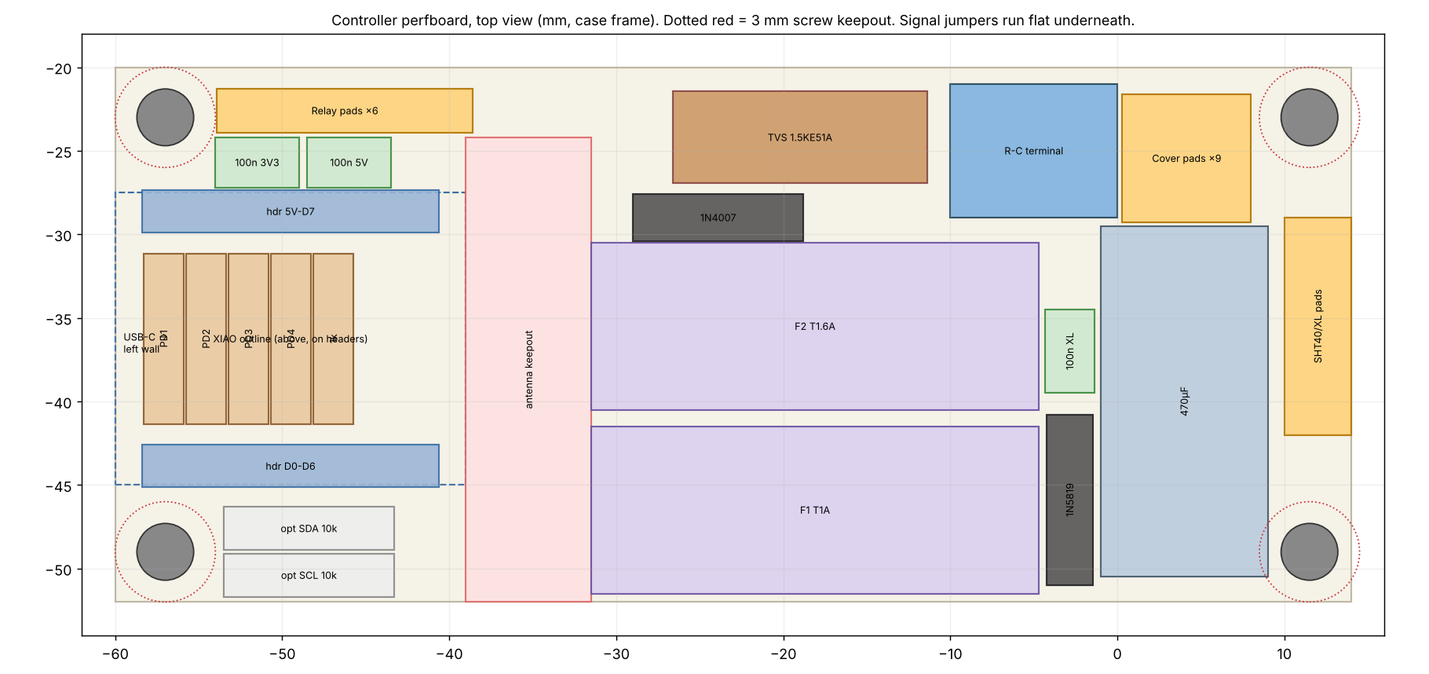
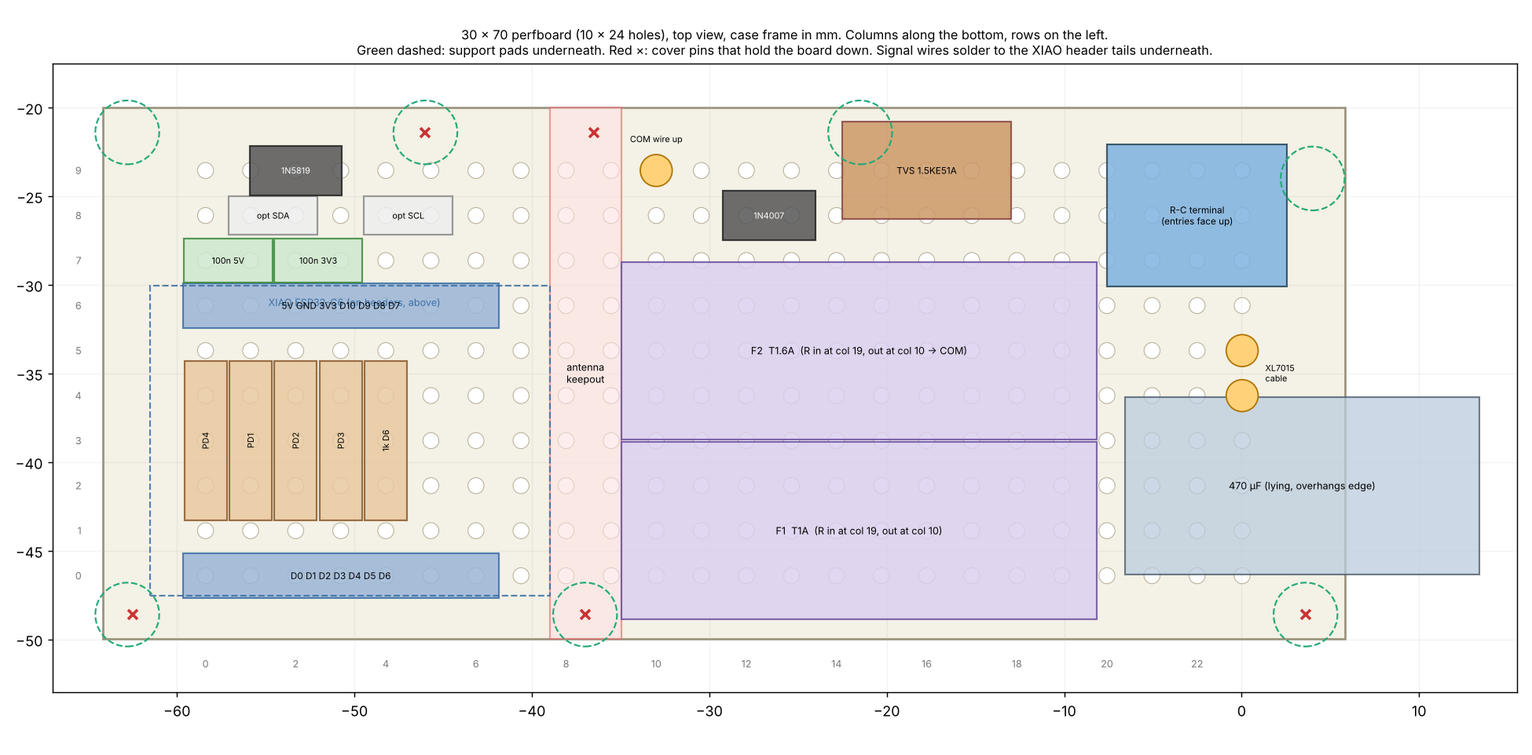
Controller board: redo the layout for the real 30 x 70 perfboard (10 x 24 holes)
- Every part sits on the 2.54 grid; hole (0, 0) is the XIAO's D0 pin, so the
  XIAO keeps its USB at the left wall. Board x -64.2..5.8, y -50..-20.
- Fuse holders along x (pins cols 10/19, rows 1 and 5); R-C terminal at the
  top right with entries facing the window; 470 uF lying along x over the
  board edge; 1N4007/TVS above the fuses; caps, 1N5819 and optional I2C
  pull-ups above the XIAO; pull-downs + 1k under it
- No mounting holes: support pads + fences on the backplate, cover pins hold
  the board down; the four M3 board bosses are gone
- Cover USB cut follows the XIAO; fuse pocket follows the holders
- Cables: relay and cover harnesses reach the XIAO end and solder to its
  header tails; SHT40 grommet channel lowered (z 6) to pass under the cap;
  XL7015 cable lands right of the R-C terminal; COM wire leaves at hole
  (10, 9) and runs at z 21
- HARDWARE.md Controller board section and layout picture redone

Claude-Session: https://claude.ai/code/session_01Pm9CHznUQ14xUjeU6nnErz

diff --git a/cad/fusion_case_v3.py b/cad/fusion_case_v3.py
@@ -41,16 +41,31 @@ MOD = (-62.0, 11.0, -4.5, 45.5)                # measured 73 x 50, centred on th
 MOD_HOLES = [(-59.0, -1.75), (8.0, -1.75), (-59.0, 42.75), (8.0, 42.75)]
 MOD_PCB_Z = 6.0
 FUSE_H = 17.0                                  # holder height with the cap; set to the measured installed height
-FUSE_X = (-31.5, -4.7)                         # fuse holders (26.8 long): 7.5 mm clear of the XIAO's antenna end (x -39)
-FUSE_POCKET = (FUSE_X[0] - 1.0, FUSE_X[1] + 1.0, -52.5, -29.5, 1.0)  # 1.0 deep pocket in the cover over the fuses (H <= 17.9)
+# controller board: a 30 x 70 perfboard with 10 x 24 holes at 2.54 and no mounting holes, held in a cradle. Hole (0, 0) is
+# the XIAO's D0 pin, so the XIAO sits on the grid with its USB end at the left wall; the last column of holes is x 0.03.
+PB_PITCH = 2.54
+PB_X0, PB_Y0 = -58.39, -46.41
+def PB(c, r):
+    return (PB_X0 + PB_PITCH * c, PB_Y0 + PB_PITCH * r)
+CTL = (PB_X0 - 5.79, PB_X0 + 23 * PB_PITCH + 5.79, PB_Y0 - 3.57, PB_Y0 + 9 * PB_PITCH + 3.57)   # x -64.18..5.82, y -49.98..-19.98
+XIAO_CY = PB_Y0 + 3 * PB_PITCH                 # XIAO rows on grid rows 0 (D0-D6) and 6 (5V-D7), cols 0-6
+# fuse holders lie along x, pins 9 holes apart (cols 10 and 19): F1 on row 1, F2 on row 5. 4 mm of plastic, 6 mm to the
+# metal clips, from the XIAO's antenna end (x -39).
+FUSE_X = (PB(10, 0)[0] - 1.97, PB(19, 0)[0] + 1.97)
+FUSE_Y = (PB(0, 1)[1], PB(0, 5)[1])            # holder centre lines (10 wide)
+FUSE_POCKET = (FUSE_X[0] - 1.0, FUSE_X[1] + 1.0, FUSE_Y[0] - 6.0, FUSE_Y[1] + 6.0, 1.0)   # 1.0 deep pocket in the cover (H <= 17.9)
+CAP_AX = (PB(20, 0)[0] + 1.0, PB(20, 0)[0] + 21.0, PB(0, 2)[1])   # 470 uF (10 x 20) lying along x, leads in col 20 rows 1/3,
+                                                                   # overhanging the board edge; ends at x 13.4
 # XL7015 buck (listing: 44 x 16 board; height to the top of the tallest part assumed 12, confirm on arrival)
 XL_L, XL_W, XL_H = 44.0, 16.0, 12.0
 XL_C = (38.5, 34.5)                            # board centre, lying on two rails under the OLED
 XL_TIES = (XL_C[0] + 7.0, XL_C[0] - 5.0)       # zip-tie notches either side of the inductor (board turned: OUT end faces left)
 # controller board
-CTL = (-60.0, 14.0, -52.0, -20.0)             # right edge trimmed to 14.0 (rib at 14.75, grommet at 14.6)
-CTL_HOLES = [(-57.0, -49.0), (11.5, -49.0), (-57.0, -23.0), (11.5, -23.0)]
 CTL_TOP = 7.6
+# cradle: support pads under the board edges, low fences round it, and pins hung from the cover that hold it down
+PB_SUPPORTS = [(-62.8, -48.6), (-37.0, -48.6), (3.6, -48.6), (-62.8, -21.4), (-46.0, -21.4), (-21.5, -21.4), (4.0, -24.0)]
+# (top-edge pads stay clear of the wall-window grommet's flange, x -19.5..19.5 down to y -21.5)
+PB_PRESS = [(-62.5, -48.6), (-37.0, -48.6), (3.6, -48.6), (-46.0, -21.4), (-36.5, -21.4)]
 # OLED (0.96" SSD1306), header removed, wires soldered to pads
 OLED_YB = 22.5
 OLED_W, OLED_H = 27.3, 27.8
@@ -140,7 +155,8 @@ SHT_X0, SHT_Y1 = 40.0, -40.0                   # pin-edge x, +Y edge: centred in
 SHT_L, SHT_W, SHT_T, SHT_Z = 12.56, 10.5, 1.6, 14.0  # along x (pins -> hole), along y, thickness, underside height
                                                      # (mid-depth: in the vent airflow, 11 mm off the backplate)
 SHT_HOLE = (SHT_X0 + SHT_L - 2.4, SHT_Y1 - 2.7)       # 2.85 hole centre
-SG_CH_Z, SG_CH_D = 8.0, 3.6                        # cable channel (4 x 26 AWG silicone, OD 1.3-1.4: needs ~3.4)
+SG_CH_Z, SG_CH_D = 6.0, 3.6                        # cable channel (4 x 26 AWG silicone, OD 1.3-1.4: needs ~3.4); low, so
+                                                   # the cable passes under the 470 uF's overhang to the board
 SG_SQUEEZE = 0.15                                  # per side: wall slot narrower than the block
 # switch mounting holes (measured): through the body side to side, 0.5 from the pin face to the hole edge,
 # one 2.0 round, one 2.1 x 2.0 slot, 6.5 apart and centred on the body (s 1.75 and 8.25).
@@ -371,13 +387,14 @@ def build_wiring():
         x1 = kx[k] - 5.0
         named.append(('Field %s' % nm, wire_path([(x0, -13.5, 0.5), (x0, -13.5, wz), (x0, wy - i * 0.0, wz),
                                                    (x1, wy, wz), (x1, yf, wz)], R_FIELD)))
-    for nm, x in (('R', -7.5), ('C', -2.5)):
-        named.append(('Field %s' % nm, wire_path([(x + 9.0, -13.5, 0.5), (x + 9.0, -13.5, 14.0), (x, -16.0, 14.0),
-                                                  (x, -20.6, 13.6)], R_FIELD)))
+    for nm, x0, c in (('R', 1.5, 21), ('C', 6.5, 23)):            # into the R-C terminal's top-facing entries
+        x = PB(c, 0)[0]
+        named.append(('Field %s' % nm, wire_path([(x0, -13.5, 0.5), (x0, -13.5, 14.0), (x, -18.5, 14.0),
+                                                  (x, -21.9, 12.0)], R_FIELD)))
     # 2. relay commons: F2 (left end) -> COM1, then COM1-COM2-COM3-COM4 jumpers
-    named.append(('F2 -> COM1', wire_path([(-29.5, -23.0, CTL_TOP + 0.8),
-                                           (-29.5, -23.0, 17.0), (-29.5, -8.0, 17.0), (kx[0], -8.0, 17.0),
-                                           (kx[0], yf, zt + 1.5)], R_FIELD)))
+    hc = PB(10, 9)                                                 # F2 out (col 10, row 5) -> underside -> hole (10, 9)
+    named.append(('F2 -> COM1', wire_path([(hc[0], hc[1], CTL_TOP + 0.8), (hc[0], hc[1], 21.0), (hc[0], -8.0, 21.0),
+                                           (kx[0], -8.0, 21.0), (kx[0], -8.0, 17.0), (kx[0], yf, zt + 1.5)], R_FIELD)))
     for a, c in zip(kx[:-1], kx[1:]):
         named.append(('COM jumper', wire_path([(a + 0.6, yf, zt + 1.5), (a + 0.6, yf - 2.0, zt + 3.5),
                                                (c - 0.6, yf - 2.0, zt + 3.5), (c - 0.6, yf, zt + 1.5)], R_FIELD)))
@@ -385,7 +402,8 @@ def build_wiring():
     rb = r_bundle(6)
     cx = mx0 - 1.2                                                 # channel between the module and the rim
     yb = my1 + 3.0
-    named.append(('Relay harness (6)', wire_path([(-50.0, -22.0, CTL_TOP + rb), (cx, -22.0, CTL_TOP + rb + 2.0),
+    # wires solder to the XIAO's header tails underneath and leave from under the board's top-left corner
+    named.append(('Relay harness (6)', wire_path([(-61.0, -18.0, 4.9), (cx, -18.0, CTL_TOP + rb + 2.0),
                                                   (cx, yb, CTL_TOP + rb + 2.0), (mx0 + 26.0, yb, CTL_TOP + rb + 2.0)], rb)))
     for i in range(6):
         tx = mx0 + 3.5 + i * 5.0
@@ -399,7 +417,8 @@ def build_wiring():
     xx = 14.0                                                      # XL7015 bundle runs low, under the cover harness
     zb = CTL_TOP + xb + 0.2
     # 3 wires: bus +, GND, 5 V out (IN- and OUT- are the same node on the XL7015). Board turned so OUT faces the cable.
-    named.append(('XL7015 harness (3)', wire_path([(12.0, -31.5, zb), (12.0, -29.0, zb), (xx, -29.0, zb), (xx, -17.0, zb), (xx, -12.0, 6.0),
+    hx_ = PB(23, 0)[0]                                             # lands in col 23, rows 4-5, right of the R-C terminal
+    named.append(('XL7015 harness (3)', wire_path([(hx_, -35.0, zb), (4.5, -35.0, zb), (4.5, -18.0, zb), (xx, -17.0, zb), (xx, -12.0, 6.0),
                                                    (xx, yl0 + 1.5, 6.0)], xb)))
     for nm, yy in (('OUT- (GND)', yl0 + 1.5), ('OUT+ (5 V)', yl1 - 1.5)):
         named.append(('XL7015 %s' % nm, wire_path([(xx, yl0 + 1.5, 6.0), (xx, yy, 6.0), (xl0 + 1.0, yy, PLATE + 3.6)], R_SIG)))
@@ -410,10 +429,12 @@ def build_wiring():
     named.append(('SHT40 (4)', wire_path([(SHT_X0 + 1.1, SHT_Y1 - SHT_W / 2, SHT_Z + SHT_T + 1.2),
                                           (SHT_X0 - 1.5, SHT_Y1 - SHT_W / 2, SHT_Z + SHT_T + 1.2), (SHT_X0 - 4.0, sy, SG_CH_Z),
                                           (SG_X[1] + 1.5, sy, SG_CH_Z),
-                                          (SG_X[0] - 1.0, sy, SG_CH_Z), (12.0, sy, CTL_TOP + 1.6)], r_bundle(4))))
+                                          (SG_X[0] - 0.2, sy, SG_CH_Z), (6.0, sy, 4.5)], r_bundle(4))))
+    # (under the 470 uF's overhang, then flat under the board to the XIAO's header tails)
     # 6. cover side: OLED (4) and D-pad (6) pigtails end in JST-PH pairs lying flat under the carrier (x 22..48,
     #    y 5..17); ~80 mm of cover-side slack is stowed there too. Controller side: one 10-wire bundle down the
-    #    channel right of the relay module to pads at x 2..8, y -28..-24 (clear of the R-C terminal and the screw).
+    #    channel right of the relay module, then high along the board's top edge (over the field wires, under the
+    #    F2 -> COM wire) to the XIAO end, where the wires go under the board to the XIAO's header tails.
     cb = r_bundle(10)
     pz = 6.85                                                      # mid-height of the mated pairs
     named.append(('OLED (4)', wire_path([(UX, OLED_YB + OLED_H - 2.0, ZF - 2.6), (UX, OLED_YB + OLED_H + 1.5, ZF - 4.0),
@@ -421,8 +442,8 @@ def build_wiring():
                                          (xc, 21.0, 12.0), (43.0, 21.0, pz), (43.0, 17.0, pz)], r_bundle(4))))
     named.append(('D-pad (6)', wire_path([(DC[0], DC[1] - 5.0, 9.5), (DC[0] - 5.0, DC[1] - 5.0, 9.5), (20.0, DC[1] - 5.0, 9.5),
                                           (20.0, -6.0, 6.0), (20.0, 18.5, 6.0), (29.0, 18.5, pz), (29.0, 17.0, pz)], r_bundle(6))))
-    named.append(('Controller side (10)', wire_path([(29.0, 5.0, pz), (29.0, 2.5, pz), (25.0, 2.5, 10.3), (15.5, 2.5, 10.3), (xc, 0.0, 13.0), (xc, -17.0, 13.0),
-                                                     (8.0, -22.0, 13.0), (5.0, -25.5, CTL_TOP + cb)], cb)))
+    named.append(('Controller side (10)', wire_path([(29.0, 5.0, pz), (29.0, 2.5, pz), (25.0, 2.5, 10.3), (15.5, 2.5, 10.3), (xc, 0.0, 13.0), (xc, -15.0, 15.0),
+                                                     (10.0, -17.5, 17.5), (-57.0, -17.5, 17.5), (-57.0, -17.5, 10.2)], cb)))
     named.append(('OLED pair -> bundle', wire_path([(43.0, 5.0, pz), (43.0, 2.5, pz), (29.5, 2.5, pz)], r_bundle(4))))
     add_bodies(w, named)
     for i, (n, _) in enumerate(named):
@@ -485,6 +506,8 @@ def build():
     joins.append(tbox(18.9, 20.1, -iy - 0.5, -52.4, 8.5, ZF + 0.3))
     joins.append(tbox(18.9, 64.4, -36.1, -34.9, 3.5, ZF + 0.3))
     joins.append(tbox(64.4, ix + 0.2, -36.1, -34.9, 8.5, ZF + 0.3))
+    for px, py in PB_PRESS:                       # hold the controller board down onto its support pads (0.15 gap)
+        joins.append(tcyl((px, py, CTL_TOP + 0.15), (px, py, ZF + 0.3), 1.2))
     combine(cov, body, joins, JOIN)
 
     cuts = []
@@ -512,7 +535,7 @@ def build():
         cuts.append(trrect(cx - 1, cx + 1, -iy - 3, -iy + 1, 7.0, 20.0, 0.9))
     for cy in (-50.0, -46.0, -42.0, -38.0):                                               # chamber intake, right side
         cuts.append(tbox(ix - 3, ix + 3, cy - 1, cy + 1, 9.0, 20.0))
-    cuts.append(tbox(-ix - 3, -ix + 1, -36.25 - 6.5, -36.25 + 6.5, 15.0, 22.5))          # USB-C, left wall
+    cuts.append(tbox(-ix - 3, -ix + 1, XIAO_CY - 6.5, XIAO_CY + 6.5, 15.0, 22.5))          # USB-C, left wall
     cuts.append(trrect(UX - WIN[0], UX + WIN[0], WIN[1], WIN[2], ZF - 1, DEPTH + 1, 1.0))  # OLED window
     for nm in ('center',) + tuple(ANG):                                                  # square-pad key openings
         cuts.append(sq_shape(nm, SQ_HOLE_CLR, ZF - 1, DEPTH + 1))
@@ -545,8 +568,15 @@ def build():
     joins += [vrib, hrib]
     for x, y in MOD_HOLES:
         joins.append(tcyl((x, y, 1.0), (x, y, MOD_PCB_Z), 3.5))
-    for x, y in CTL_HOLES:
-        joins.append(tcyl((x, y, 1.0), (x, y, CTL_TOP - 1.6), 3.5))
+    cx0, cx1, cy0, cy1 = CTL                                                     # controller board cradle
+    for x, y in PB_SUPPORTS:                                                     # pads under the hole-free edge margins
+        joins.append(tcyl((x, y, PLATE - 0.5), (x, y, CTL_TOP - 1.6), 1.8))
+    g_, t_, zt_ = 0.15, 1.2, CTL_TOP + 0.8                                       # fences: no overhangs, prints as is
+    joins.append(tbox(cx0 + 1.0, cx0 + 7.0, cy0 - g_ - t_, cy0 - g_, PLATE - 0.5, zt_))      # bottom edge, both ends
+    joins.append(tbox(cx1 - 7.0, cx1 - 1.0, cy0 - g_ - t_, cy0 - g_, PLATE - 0.5, zt_))
+    joins.append(tbox(-45.0, -40.0, cy1 + g_, cy1 + g_ + t_, PLATE - 0.5, zt_))       # top edge, clear of the wall screw
+    joins.append(tbox(cx1 + g_, cx1 + g_ + t_, cy0 + 1.0, cy0 + 4.0, PLATE - 0.5, zt_))   # right edge, below the cap
+    joins.append(tbox(cx1 + g_, cx1 + g_ + t_, cy1 - 7.0, cy1 - 3.0, PLATE - 0.5, zt_))
     hx_, hy_ = SHT_HOLE                                                          # SHT40 standoff + two rest posts
     joins.append(tcyl((hx_, hy_, PLATE - 0.5), (hx_, hy_, SHT_Z), 2.0))      # thin: less wall heat into the sensor
     for px_, py_ in ((SHT_X0 + 4.5, SHT_Y1 - 1.5), (SHT_X0 + 4.5, SHT_Y1 - SHT_W + 1.5)):
@@ -567,8 +597,6 @@ def build():
     cuts = []
     for x, y in MOD_HOLES:                                                         # M3 x 6 into the bosses
         cuts.append(tcyl((x, y, 1.0), (x, y, MOD_PCB_Z + 0.1), M3_PILOT_R))
-    for x, y in CTL_HOLES:
-        cuts.append(tcyl((x, y, 1.0), (x, y, CTL_TOP - 1.5), M3_PILOT_R))
     cuts.append(tcyl((SCREW[0], -hy - 1.0, SCREW[1]), (SCREW[0], -45.0, SCREW[1]), M3_PILOT_R))   # M3 x 10 closure (2 mm past the tip)
     cuts.append(tbox(VDIV_X - DIV_RIB, VDIV_X + DIV_RIB, HDIV_Y - DIV_RIB, HDIV_Y + DIV_RIB, 10.0, 13.0))   # rib junction groove
     cuts.append(trrect(*WIN_W, -1.0, PLATE + 1.0, WIN_R))                          # wire window
@@ -799,35 +827,43 @@ def build():
         ('Input terminal (DC+ DC- IN1-4)', tbox(mx0 + 1.0, mx0 + 31.5, my0 + 41.5, my0 + 49.5, mz, mz + 10.0)),
         ('H/L jumpers S1-S4', tbox(mx1 - 31.0, mx1 - 20.0, my0 + 40.0, my0 + 48.0, mz, mz + 8.5)),
         ('Controller perfboard', tbox(cx0, cx1, cy0, cy1, CTL_TOP - 1.6, CTL_TOP)),
-        ('XIAO ESP32-C6', tbox(-60.0, -39.0, -45.0, -27.5, CTL_TOP + 8.5, CTL_TOP + 9.5)),
-        ('XIAO shield + USB', tbox(-61.5, -46.0, -41.0, -31.5, CTL_TOP + 9.5, CTL_TOP + 12.7)),
-        # 0.6" DIP rows: D0-D6 on the -y row, 5V GND 3V3 D10 D9 D8 D7 on the +y row, pin 1 at the USB end
-        ('XIAO header row D0-D6', tbox(-58.39, -40.61, -45.14, -42.60, CTL_TOP, CTL_TOP + 8.5)),
-        ('XIAO header row 5V-D7', tbox(-58.39, -40.61, -29.90, -27.36, CTL_TOP, CTL_TOP + 8.5)),
+        ('XIAO ESP32-C6', tbox(-60.0, -39.0, XIAO_CY - 8.75, XIAO_CY + 8.75, CTL_TOP + 8.5, CTL_TOP + 9.5)),
+        ('XIAO shield + USB', tbox(-61.5, -46.0, XIAO_CY - 4.75, XIAO_CY + 4.75, CTL_TOP + 9.5, CTL_TOP + 12.7)),
+        # 0.6" DIP rows on grid rows 0 and 6, cols 0-6: D0-D6 on row 0, 5V GND 3V3 D10 D9 D8 D7 on row 6
+        ('XIAO header row D0-D6', tbox(PB(0, 0)[0] - 1.27, PB(6, 0)[0] + 1.27, PB(0, 0)[1] - 1.27, PB(0, 0)[1] + 1.27,
+                                        CTL_TOP, CTL_TOP + 8.5)),
+        ('XIAO header row 5V-D7', tbox(PB(0, 6)[0] - 1.27, PB(6, 6)[0] + 1.27, PB(0, 6)[1] - 1.27, PB(0, 6)[1] + 1.27,
+                                        CTL_TOP, CTL_TOP + 8.5)),
         ('XL7015 board', tbox(XL_C[0] - XL_L / 2, XL_C[0] + XL_L / 2, XL_C[1] - XL_W / 2, XL_C[1] + XL_W / 2,
                               PLATE + 1.5, PLATE + 1.5 + 1.6)),
         ('XL7015 parts (caps, trimpot)', tbox(XL_C[0] - XL_L / 2 + 1, XL_C[0] + XL_L / 2 - 1, XL_C[1] - XL_W / 2,
                                               XL_C[1] + XL_W / 2, PLATE + 3.1, PLATE + 1.5 + XL_H)),
-        ('470uF 63V (lying, on the controller board)', tcyl((4.0, -50.5, CTL_TOP + 5.0), (4.0, -29.5, CTL_TOP + 5.0), 5.0)),
-        ('Pad strip (SHT40 4, XL7015 3)', tbox(10.0, 14.0, -42.0, -29.0, CTL_TOP, CTL_TOP + 0.6)),
+        ('470uF 63V (lying along x, leads col 20, over the board edge)',
+         tcyl((CAP_AX[0], CAP_AX[2], CTL_TOP + 5.0), (CAP_AX[1], CAP_AX[2], CTL_TOP + 5.0), 5.0)),
         ('JST-PH 6p pair (D-pad), lying flat', tbox(22.0, 36.0, 5.0, 17.0, 4.6, 9.1)),
         ('JST-PH 4p pair (OLED), lying flat', tbox(38.0, 48.0, 5.0, 17.0, 4.6, 9.1)),
-        ('R-C terminal', tbox(-10.0, 0.0, -29.0, -21.0, CTL_TOP, CTL_TOP + 12.0)),
-        # 5x20 PCB fuse holders, measured 26.8 x 10 x 17 with the cap on (pins 23 apart)
-        ('Fuse F1 PCB holder', tbox(FUSE_X[0], FUSE_X[1], -51.5, -41.5, CTL_TOP, CTL_TOP + FUSE_H)),
-        ('Fuse F2 PCB holder', tbox(FUSE_X[0], FUSE_X[1], -40.5, -30.5, CTL_TOP, CTL_TOP + FUSE_H)),
+        # 5.08 R-C terminal, pins in cols 21/23 of row 8, wire entries facing the wall window (+y)
+        ('R-C terminal', tbox(PB(21, 0)[0] - 2.54, PB(23, 0)[0] + 2.54, PB(0, 8)[1] - 4.0, PB(0, 8)[1] + 4.0,
+                              CTL_TOP, CTL_TOP + 12.0)),
+        # 5x20 PCB fuse holders, measured 26.8 x 10 x 17 with the cap on (pins 23 apart = 9 holes)
+        ('Fuse F1 PCB holder', tbox(FUSE_X[0], FUSE_X[1], FUSE_Y[0] - 5.0, FUSE_Y[0] + 5.0, CTL_TOP, CTL_TOP + FUSE_H)),
+        ('Fuse F2 PCB holder', tbox(FUSE_X[0], FUSE_X[1], FUSE_Y[1] - 5.0, FUSE_Y[1] + 5.0, CTL_TOP, CTL_TOP + FUSE_H)),
         # ---- small parts (docs/HARDWARE.md, Controller board). Signal jumpers run flat on the underside (26 AWG).
-        ('XIAO antenna keepout (keep empty)', tbox(-39.0, FUSE_X[0], -52.0, -24.2, CTL_TOP, CTL_TOP + 0.2)),
-        ('Relay cable pads (5V GND IN1-4)', tbox(-53.9, -38.6, -23.9, -21.3, CTL_TOP, CTL_TOP + 1.5)),
-        ('100nF XIAO 3V3', tbox(-54.0, -49.0, -27.2, -24.2, CTL_TOP, CTL_TOP + 7.0)),
-        ('100nF XIAO 5V', tbox(-48.5, -43.5, -27.2, -24.2, CTL_TOP, CTL_TOP + 7.0)),
-        ('Opt. I2C pull-up SDA 10k', tcyl((-53.5, -47.6, CTL_TOP + 1.3), (-43.3, -47.6, CTL_TOP + 1.3), 1.3)),
-        ('Opt. I2C pull-up SCL 10k', tcyl((-53.5, -50.4, CTL_TOP + 1.3), (-43.3, -50.4, CTL_TOP + 1.3), 1.3)),
-        ('1N4007 (F1 -> bus)', tcyl((-29.0, -29.0, CTL_TOP + 1.4), (-18.8, -29.0, CTL_TOP + 1.4), 1.4)),
-        ('1.5KE51A TVS (bus)', tcyl((-26.6, -24.2, CTL_TOP + 2.75), (-11.4, -24.2, CTL_TOP + 2.75), 2.75)),
-        ('1N5819 (XL OUT -> XIAO 5V)', tcyl((-2.85, -51.0, CTL_TOP + 1.4), (-2.85, -40.8, CTL_TOP + 1.4), 1.4)),
-        ('100nF XL7015 OUT', tbox(-4.35, -1.35, -39.5, -34.5, CTL_TOP, CTL_TOP + 7.0)),
-        ('Cover harness pads (9)', tbox(0.3, 8.0, -29.3, -21.6, CTL_TOP, CTL_TOP + 1.5)),
+        # ---- small parts (docs/HARDWARE.md, Controller board). Wires to the XIAO solder to its header tails underneath.
+        ('XIAO antenna keepout (keep empty)', tbox(-39.0, FUSE_X[0], CTL[2], CTL[3], CTL_TOP, CTL_TOP + 0.2)),
+        ('100nF XIAO 5V (cols 0-1, row 7)', tbox(PB(0, 7)[0] - 1.23, PB(1, 7)[0] + 1.23, PB(0, 7)[1] - 1.25, PB(0, 7)[1] + 1.25,
+                                                 CTL_TOP, CTL_TOP + 7.0)),
+        ('100nF XIAO 3V3 (cols 2-3, row 7)', tbox(PB(2, 7)[0] - 1.23, PB(3, 7)[0] + 1.23, PB(0, 7)[1] - 1.25, PB(0, 7)[1] + 1.25,
+                                                  CTL_TOP, CTL_TOP + 7.0)),
+        ('Opt. I2C pull-up SDA 10k (row 8, cols 0-3)', tcyl((PB(0, 8)[0] + 1.3, PB(0, 8)[1], CTL_TOP + 1.1),
+                                                            (PB(3, 8)[0] - 1.3, PB(0, 8)[1], CTL_TOP + 1.1), 1.1)),
+        ('Opt. I2C pull-up SCL 10k (row 8, cols 3-6)', tcyl((PB(3, 8)[0] + 1.3, PB(0, 8)[1], CTL_TOP + 1.1),
+                                                            (PB(6, 8)[0] - 1.3, PB(0, 8)[1], CTL_TOP + 1.1), 1.1)),
+        ('1N5819 (row 9, cols 0-4)', tcyl((PB(0, 9)[0] + 2.5, PB(0, 9)[1], CTL_TOP + 1.4), (PB(4, 9)[0] - 2.5, PB(0, 9)[1], CTL_TOP + 1.4), 1.4)),
+        ('1N4007 (row 8, cols 11-14)', tcyl((PB(11, 8)[0] + 1.2, PB(0, 8)[1], CTL_TOP + 1.4), (PB(14, 8)[0] - 1.2, PB(0, 8)[1], CTL_TOP + 1.4), 1.4)),
+        ('1.5KE51A TVS (row 9, cols 13-19)', tcyl((PB(16, 9)[0] - 4.75, PB(0, 9)[1], CTL_TOP + 2.75), (PB(16, 9)[0] + 4.75, PB(0, 9)[1], CTL_TOP + 2.75), 2.75)),
+        ('F2 -> COM wire hole (col 10, row 9)', tcyl((PB(10, 9)[0], PB(10, 9)[1], CTL_TOP), (PB(10, 9)[0], PB(10, 9)[1], CTL_TOP + 0.6), 0.6)),
+        ('XL7015 cable holes (col 23, rows 4-5)', tbox(PB(23, 4)[0] - 1.0, PB(23, 4)[0] + 1.0, PB(0, 4)[1] - 1.0, PB(0, 5)[1] + 1.0, CTL_TOP, CTL_TOP + 0.6)),
         ('SHT40 module', tbox(SHT_X0, SHT_X0 + SHT_L, SHT_Y1 - SHT_W, SHT_Y1, SHT_Z, SHT_Z + SHT_T + 1.0)),
         ('#8 screw head L (slot travel)', U(tcyl((-MNT_X - MNT_HALF, MNT_Y, PLATE + MNT_BOSS), (-MNT_X - MNT_HALF, MNT_Y, PLATE + MNT_BOSS + 3), MNT_RH),
                                           U(tbox(-MNT_X - MNT_HALF, -MNT_X + MNT_HALF, MNT_Y - MNT_RH, MNT_Y + MNT_RH, PLATE + MNT_BOSS, PLATE + MNT_BOSS + 3),
@@ -839,9 +875,10 @@ def build():
         ('OLED glass', tbox(UX - 13.35, UX + 13.35, OLED_YB + 4.6, OLED_YB + 24.0, ZF - 1.4, ZF)),
         ('OLED back parts', tbox(UX - 12.0, UX + 12.0, OLED_YB + 1, OLED_YB + 26, ZF - 3.4, ZF - 2.4)),
     ]
-    for nm, x in (('10k pull-down IN1 (D1)', -57.1), ('10k pull-down IN2 (D2)', -54.56), ('10k pull-down IN3 (D3)', -52.02),
-                  ('10k pull-down IN4 (D10)', -49.48), ('1k series D6 (RIGHT key)', -46.94)):   # under the XIAO, USB half
-        r.append((nm, tcyl((x, -41.35, CTL_TOP + 1.25), (x, -31.15, CTL_TOP + 1.25), 1.2)))   # 1/4 W body ~2.4
+    for nm, c in (('10k pull-down IN4 (D10)', 0), ('10k pull-down IN1 (D1)', 1), ('10k pull-down IN2 (D2)', 2),
+                  ('10k pull-down IN3 (D3)', 3), ('1k series D6 (RIGHT key)', 4)):   # under the XIAO, leads on rows 1 and 5
+        x = PB(c, 0)[0]
+        r.append((nm, tcyl((x, PB(0, 1)[1] + 0.6, CTL_TOP + 1.25), (x, PB(0, 5)[1] - 0.6, CTL_TOP + 1.25), 1.2)))   # 1/4 W ~2.4
     for i, dx in enumerate((-25.5, -8.5, 8.5, 25.5)):
         x = (mx0 + mx1) / 2 + dx
         r.append(('Relay K%d' % (i + 1), tbox(x - 7.75, x + 7.75, my0 + 10, my0 + 29, mz, mz + 15.5)))

diff --git a/docs/HARDWARE.md b/docs/HARDWARE.md
@@ -76,30 +76,32 @@ R ──F2 T1.6A── relay COM1..COM4 (jumpered)
 
 ![Controller perfboard layout](controller_layout.png)
 
-Perfboard about 74 × 32 mm (x −60..14, y −52..−20 in the CAD), top face 7.6 mm above the wall plane. Every part sits on the **top**; signal jumpers (26 AWG) run flat on the underside, and every lead and header tail is trimmed to ≤ 2 mm (3 mm gap to the backplate). Every pad and lead stays ≥ 3 mm from a screw centre.
+A **30 × 70 mm perfboard with 10 × 24 holes** (2.54 mm) and no mounting holes, top face 7.6 mm above the wall plane. In the CAD the board spans x −64.2..5.8, y −50.0..−20.0. Hole (column 0, row 0) is the XIAO's D0 pin; columns run along x, rows along y.
 
-| Part | Where (x, y in mm) | Notes |
+- **Mounting:** no screws. The board sits on seven support pads on the backplate, inside low fences along its bottom, top and right edges, with the backplate rim on its left. Five pins hung from the cover stop 0.15 mm above the board and hold it down when the cover is on.
+- **Wiring:** every part sits on the top. Wires to the XIAO (relay cable, cover harness, SHT40) solder to the XIAO's header tails underneath and run flat under the board (26 AWG). Trim every lead and tail to ≤ 2 mm: there are 3 mm to the backplate.
+
+| Part | Holes (column, row) | Notes |
 |---|---|---|
-| XIAO ESP32-C6 on female headers | x −60..−39; rows y −43.9 (D0–D6) and −28.6 (5V GND 3V3 D10 D9 D8 D7), pin 1 at the USB end | USB-C through the left wall. Antenna at the x −39 end. |
-| **Antenna keepout** | x −39..−31.5, full height of the board | Bare board: no metal, no 24 VAC wire. The cover and backplate in front of it are plain plastic. |
-| 10 k pull-downs IN1–IN4, 1 k D6 series | under the XIAO, lying along y at x −57.1, −54.6, −52.0, −49.5 (pull-downs) and −46.9 (1 k) | Between the header rows (2.6 mm tall vs 8.5 under the XIAO), kept to the USB half. D1 and GND are opposite each other, so PD1 goes straight across. |
-| 100 nF, XIAO 3V3 and 5V | standing just above the 5V–D7 row, x −54..−49 and −48.5..−43.5 | |
-| Relay cable pads (DC+, DC−, IN1–IN4) | one row at y −22.6, x −53.9..−38.6 | Cable soldered here and tacked down; it leaves along the top edge to the left channel. |
-| Optional I2C pull-ups 10 k | below the XIAO, lying along x at y −47.6 and −50.4, x −53.5..−43.3 | Only if the SHT40 module has none. |
-| F2 (T1.6A, relay commons) | top row, x −31.5..−4.7, y −40.5..−30.5 | R in at the right pin; out at the left pin to the COM wire, which leaves the board at (−29.5, −23). |
-| F1 (T1A, power) | bottom row, same x, y −51.5..−41.5 | R in at the right pin; left pin to the 1N4007 by an underside link. |
-| 1N4007 | lying along x above F2, x −29..−18.8, y −29 | F1 → bus. |
-| 1.5KE51A TVS | lying along x, x −26.6..−11.4, y −24.2 | Across the bus (cathode to bus +, at the right end). |
-| R-C terminal | x −10..0, y −29..−21 | Field R and C from the wire window. |
-| 470 µF 63 V | lying, axis x = 4, y −50.5..−29.5 | Clears the (11.5, −49) screw for a driver. |
-| 1N5819 | lying along y, x −2.85, y −51..−40.8 | XL7015 OUT+ → XIAO 5V. |
-| 100 nF at the XL7015 output | standing, x −4.35..−1.35, y −39.5..−34.5 | |
-| Cover harness pads (9) | 3 × 3, x 0.3..8, y −29.3..−21.6 | GND (OLED and D-pad share it), 3V3, SDA, SCL, UP, DOWN, LEFT, RIGHT, OK. |
-| SHT40 (4) and XL7015 (3) pads | x 10..14, y −42..−36 and −34..−29 | Cables arrive from the grommet and the channel on the right. |
+| XIAO ESP32-C6 on female headers | columns 0–6; row 0 = D0–D6, row 6 = 5V GND 3V3 D10 D9 D8 D7 | USB-C at the left wall; antenna at the column-6 end. |
+| 10 k pull-downs IN4 (D10), IN1, IN2, IN3 and the 1 k D6 series resistor | columns 0, 1, 2, 3 and 4, leads on rows 1 and 5 (lying under the XIAO) | 2.4 mm tall vs 8.5 under the XIAO. D1 and GND are both on column 1, so the IN1 pull-down goes straight across. |
+| 100 nF, XIAO 5V and 3V3 | columns 0–1 and 2–3, row 7 | standing, just above the 5V–D7 row |
+| Optional I2C pull-ups 10 k | row 8, columns 0–3 and 3–6 (share the 3V3 hole in column 3) | only if the SHT40 module has none |
+| 1N5819 | row 9, columns 0–4 (cathode on column 0, toward 5V) | XL7015 OUT+ → XIAO 5V |
+| **Antenna keepout** | columns 7–9 | bare board, no metal, no 24 VAC; only plastic (a cover pin) in front of it |
+| F1 (T1A, power) | pins at columns 10 and 19, row 1 | R in at column 19; out at column 10, by an underside link to the 1N4007 |
+| F2 (T1.6A, relay commons) | pins at columns 10 and 19, row 5 | R in at column 19; out at column 10, by an underside link to hole (10, 9), where the 18 AWG COM wire leaves the board |
+| 1N4007 | row 8, columns 11–14 | F1 → bus |
+| 1.5KE51A TVS | row 9, columns 13–19 (cathode toward column 13) | across the bus |
+| R-C terminal (5.08) | columns 21 and 23, row 8 | wire entries face the top edge, toward the wall window |
+| 470 µF 63 V | leads in column 20, rows 1 and 3; body lying along x, over the right edge | about 7.6 mm of the 20 mm body hangs past the board edge, clear of the divider rib. The SHT40 cable passes underneath it. |
+| XL7015 cable (bus +, GND, 5 V) | column 23, rows 4–5 | the cable arrives down the right side of the R-C terminal |
 
-- **NPN relay drivers (optional):** the four TO-92s and their base resistors don't fit on this board. If bring-up step 2 calls for them, build them on a small strip at the relay module's 6-way input terminal.
 - **Fuse holders:** the header pins added to the clip legs must be **soldered**, not glued (CA glue doesn't conduct and F2 carries up to about 1 A). Tug-test them and check ≤ 0.05 Ω from clip to pin. Installed height, board top to the highest point, must be ≤ 17.9 mm (the cover has a 1 mm pocket over the fuses).
-- **Reachable with the cover off:** both fuses, the XIAO's B and R buttons, and the USB-C port (through the left wall). The XL7015 trimpot is on the XL board under the OLED, reachable with the cover off.
+- **100 nF at the XL7015 output:** solder it across the XL7015's own OUT terminals; there's no room for it on the perfboard.
+- **NPN relay drivers (optional):** they don't fit. If bring-up step 2 calls for them, build them on a small strip at the relay module's 6-way input terminal.
+- **Antenna clearance:** the fuse holders' plastic is 4 mm from the XIAO's antenna end and their metal clips about 6 mm.
+- **Reachable with the cover off:** both fuses, the XIAO's B and R buttons, and the USB-C port (through the left wall). The board lifts out of its cradle with the cover off.
 
 ## Sensor
 
@@ -139,7 +141,7 @@ Perfboard about 74 × 32 mm (x −60..14, y −52..−20 in the CAD), top face 7
 | 5.08 mm screw terminals (from the QSYZAIL kit) | R, C plus field wires |
 | 0.96" SSD1306 OLED | 1 (on hand) |
 | Lever micro switches | 5 (on hand) |
-| Perfboard about 74 × 32; M3 × 10 and M2 × 6 button-head screws (threaded straight into PETG, no inserts); #8 screws and anchors | — |
+| 30 × 70 perfboard, 10 × 24 holes (held in a cradle, no screws); M3 × 10 and M2 × 6 button-head screws (threaded straight into PETG, no inserts); #8 screws and anchors | — |
 | JST-PH pigtail pairs: one 6-pin (D-pad), one or two 4-pin (OLED, optional SHT40) | — |
 | 1 k resistor (D6 line), 10 k pull-downs (IN1–IN4) | 1 + 4 |
 | Optional: 10 k I2C pull-ups; 2N3904 / 2N2222 / 2N7000 relay drivers + 2.2–4.7 k base resistors | 2; 4 + 4 |

diff --git a/cad/CONTROLLER_PARTS_TO_ADD.md b/cad/CONTROLLER_PARTS_TO_ADD.md
@@ -1,10 +1,10 @@
 # Controller board: parts the case model still needs
 
-> **Done (Oct 8, 2026).** Every part below is now a named reference body in `fusion_case_v3.py` and clears
-> the cover, backplate and screws; placements are in docs/HARDWARE.md, "Controller board". The fuses moved
-> 4.5 mm right, so the XIAO's antenna end has 7.5 mm of bare board (the relay pads reach 0.4 mm into it at the
-> top edge, low voltage only). The optional NPN driver set did not fit: build it on a strip at the relay
-> module's input terminal if bring-up step 2 calls for it.
+> **Done (Oct 8, 2026), then redone for the real board.** The board on hand is a 30 × 70 perfboard with only 10 × 24
+> holes and no mounting holes, so the layout was redone on that grid (docs/HARDWARE.md, "Controller board"). Everything
+> stays on the one board; it sits in a cradle on the backplate and pins on the cover hold it down. The XIAO's antenna
+> end has 4 mm to the fuse holders' plastic and about 6 mm to their metal clips. The 100 nF at the XL7015 output moved
+> onto the XL7015's own terminals, and the optional NPN drivers still don't fit.
 
 This is for whoever next edits `fusion_case_v3.py`. The firmware and the
 bring-up work (Oct 2026) settled every part on the controller perfboard.
